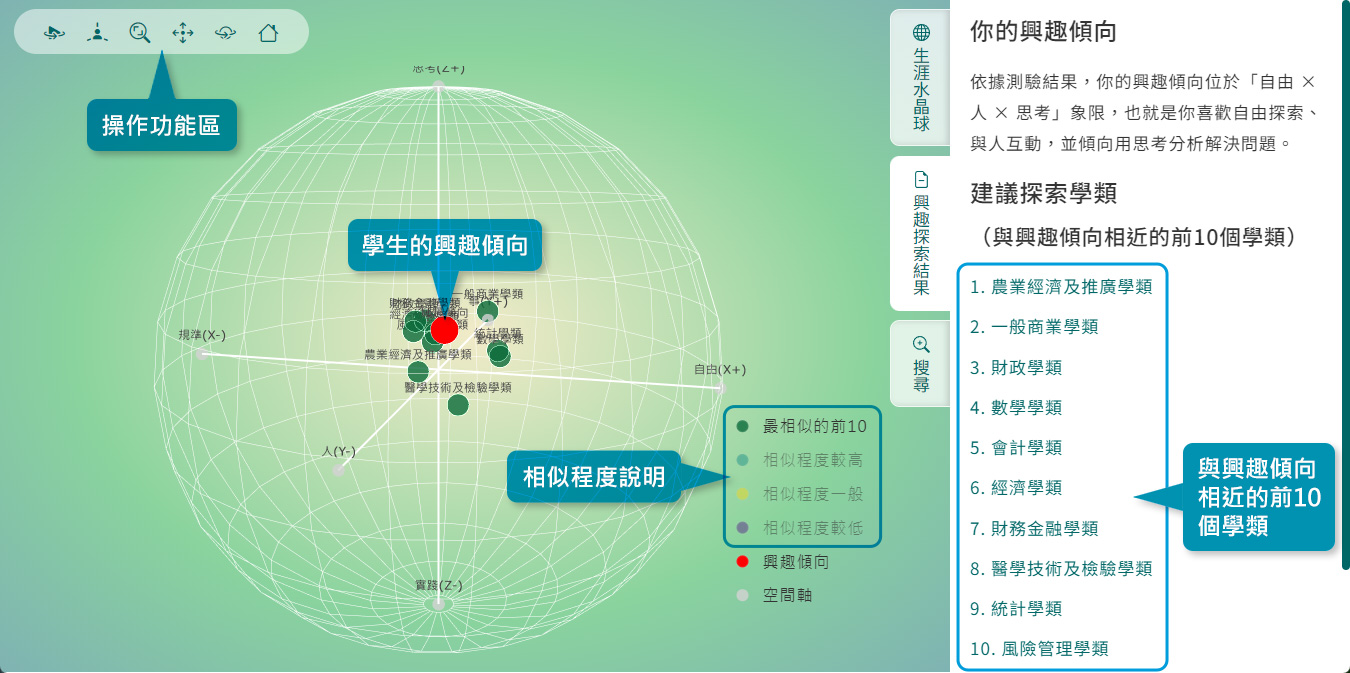
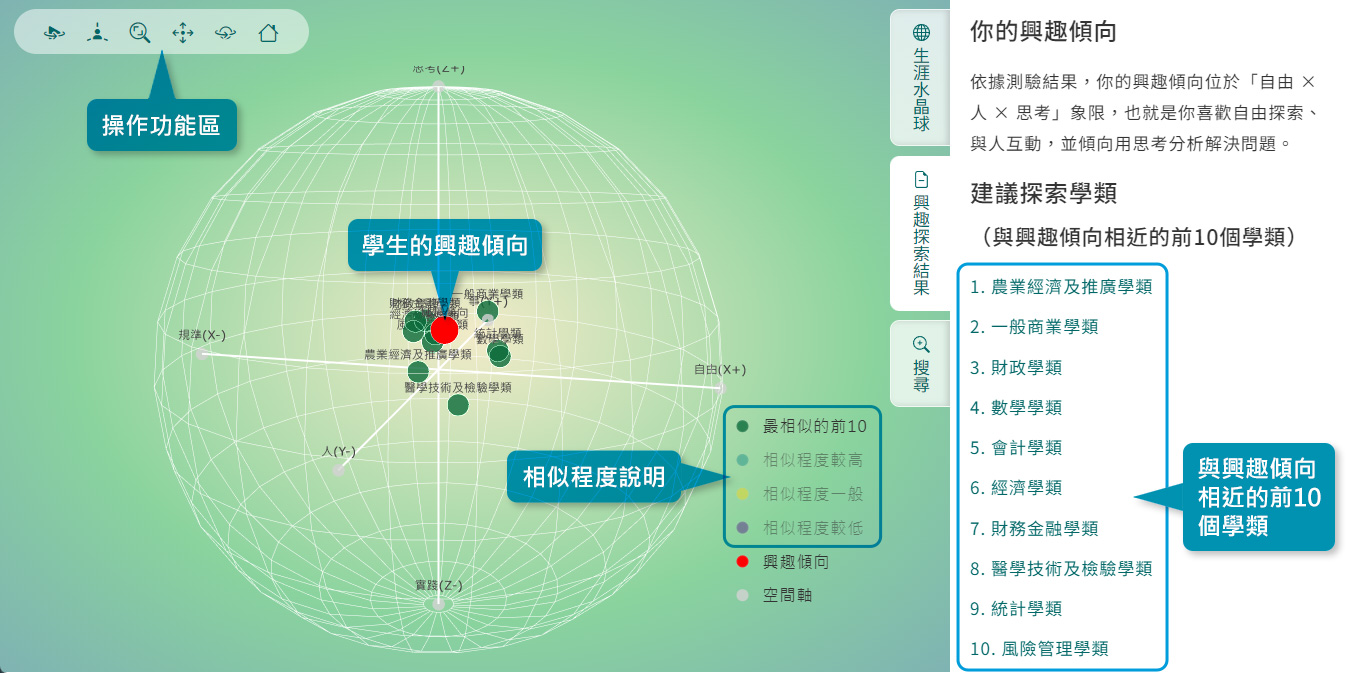
T

Changed region(s): [[0.9956, 0.0, 1.0, 0.8737], [0.9956, 0.9985, 1.0, 1.0]]

diff --git a/TEACHER/css/TI.css b/TEACHER/css/TI.css
@@ -27,8 +27,7 @@ ul.menu {
     width: 10px;
     height: 10px;
     background-image: url(../images/TI/UI.png);
-    background-position: 0px -96px;
-    transform: translateX(-50%); }
+    background-position: 0px -96px; }
   .subMenu .subMenu-bg {
     width: 100%; }
     .subMenu .subMenu-bg span {
@@ -49,33 +48,33 @@ ul.menu {
     .subMenu a:hover, .subMenu a.active {
       color: #fced03; }
   .subMenu.sub1 .subMenu-arrow {
-    margin-left: 7.1428571429%; }
+    margin-left: calc(938px/7*1 - 938px/7/2 - 10px/2); }
   .subMenu.sub1 .subMenu-bg {
     padding-left: 10px; }
   .subMenu.sub2 .subMenu-arrow {
-    margin-left: 21.4285714286%; }
+    margin-left: calc(938px/7*2 - 938px/7/2 - 10px/2); }
   .subMenu.sub2 .subMenu-bg {
-    padding-left: 14.2857142857%; }
+    padding-left: calc(938px/7*1); }
   .subMenu.sub3 .subMenu-arrow {
-    margin-left: 35.7142857143%; }
+    margin-left: calc(938px/7*3 - 938px/7/2 - 10px/2); }
   .subMenu.sub3 .subMenu-bg {
-    padding-left: 28.5714285714%; }
+    padding-left: calc(938px/7*2); }
   .subMenu.sub4 .subMenu-arrow {
-    margin-left: 50%; }
+    margin-left: calc(938px/7*4 - 938px/7/2 - 10px/2); }
   .subMenu.sub4 .subMenu-bg {
-    padding-left: 42.8571428571%; }
+    padding-left: calc(938px/7*3); }
   .subMenu.sub5 .subMenu-arrow {
-    margin-left: 64.2857142857%; }
+    margin-left: calc(938px/7*5 - 938px/7/2 - 10px/2); }
   .subMenu.sub5 .subMenu-bg {
-    padding-left: 57.1428571429%; }
+    padding-left: calc(938px/7*4); }
   .subMenu.sub6 .subMenu-arrow {
-    margin-left: 78.5714285714%; }
+    margin-left: calc(938px/7*6 - 938px/7/2 - 10px/2); }
   .subMenu.sub6 .subMenu-bg {
-    padding-left: 71.4285714286%; }
+    padding-left: calc(938px/7*5); }
   .subMenu.sub7 .subMenu-arrow {
-    margin-left: 92.8571428571%; }
+    margin-left: calc(938px/7*7 - 938px/7/2 - 10px/2); }
   .subMenu.sub7 .subMenu-bg {
-    padding-left: 85.7142857143%; }
+    padding-left: calc(938px/7*6); }
   .subMenu.sub6 .subMenu-bg {
     padding-left: 0;
     text-align: right;
@@ -150,3 +149,5 @@ ul.menu {
         .content_block li dl dd .subtitle {
           color: #398006;
           font-size: 1.05em; }
+
+/*# sourceMappingURL=TI.css.map */

diff --git a/TEACHER/css/TA.css b/TEACHER/css/TA.css
@@ -27,8 +27,7 @@ ul.menu {
     width: 10px;
     height: 10px;
     background-image: url(../images/TA/UI.png);
-    background-position: 0px -96px;
-    transform: translateX(-50%); }
+    background-position: 0px -96px; }
   .subMenu .subMenu-bg {
     width: 100%; }
     .subMenu .subMenu-bg span {
@@ -49,33 +48,33 @@ ul.menu {
     .subMenu a:hover, .subMenu a.active {
       color: #fced03; }
   .subMenu.sub1 .subMenu-arrow {
-    margin-left: 7.1428571429%; }
+    margin-left: calc(938px/7*1 - 938px/7/2 - 10px/2); }
   .subMenu.sub1 .subMenu-bg {
     padding-left: 10px; }
   .subMenu.sub2 .subMenu-arrow {
-    margin-left: 21.4285714286%; }
+    margin-left: calc(938px/7*2 - 938px/7/2 - 10px/2); }
   .subMenu.sub2 .subMenu-bg {
-    padding-left: 14.2857142857%; }
+    padding-left: calc(938px/7*1); }
   .subMenu.sub3 .subMenu-arrow {
-    margin-left: 35.7142857143%; }
+    margin-left: calc(938px/7*3 - 938px/7/2 - 10px/2); }
   .subMenu.sub3 .subMenu-bg {
-    padding-left: 28.5714285714%; }
+    padding-left: calc(938px/7*2); }
   .subMenu.sub4 .subMenu-arrow {
-    margin-left: 50%; }
+    margin-left: calc(938px/7*4 - 938px/7/2 - 10px/2); }
   .subMenu.sub4 .subMenu-bg {
-    padding-left: 42.8571428571%; }
+    padding-left: calc(938px/7*3); }
   .subMenu.sub5 .subMenu-arrow {
-    margin-left: 64.2857142857%; }
+    margin-left: calc(938px/7*5 - 938px/7/2 - 10px/2); }
   .subMenu.sub5 .subMenu-bg {
-    padding-left: 57.1428571429%; }
+    padding-left: calc(938px/7*4); }
   .subMenu.sub6 .subMenu-arrow {
-    margin-left: 78.5714285714%; }
+    margin-left: calc(938px/7*6 - 938px/7/2 - 10px/2); }
   .subMenu.sub6 .subMenu-bg {
-    padding-left: 71.4285714286%; }
+    padding-left: calc(938px/7*5); }
   .subMenu.sub7 .subMenu-arrow {
-    margin-left: 92.8571428571%; }
+    margin-left: calc(938px/7*7 - 938px/7/2 - 10px/2); }
   .subMenu.sub7 .subMenu-bg {
-    padding-left: 85.7142857143%; }
+    padding-left: calc(938px/7*6); }
 
 .subsubMenu {
   padding-top: 10px;
@@ -146,3 +145,5 @@ ul.menu {
         .content_block li dl dd .subtitle {
           color: #0b5e61;
           font-size: 1.05em; }
+
+/*# sourceMappingURL=TA.css.map */

diff --git a/TEACHER/css/TW.css b/TEACHER/css/TW.css
@@ -27,8 +27,7 @@ ul.menu {
     width: 10px;
     height: 10px;
     background-image: url(../images/TW/UI.png);
-    background-position: 0px -96px;
-    transform: translateX(-50%); }
+    background-position: 0px -96px; }
   .subMenu .subMenu-bg {
     width: 100%; }
     .subMenu .subMenu-bg span {
@@ -49,33 +48,33 @@ ul.menu {
     .subMenu a:hover, .subMenu a.active {
       color: #fced03; }
   .subMenu.sub1 .subMenu-arrow {
-    margin-left: 7.1428571429%; }
+    margin-left: calc(938px/7*1 - 938px/7/2 - 10px/2); }
   .subMenu.sub1 .subMenu-bg {
     padding-left: 10px; }
   .subMenu.sub2 .subMenu-arrow {
-    margin-left: 21.4285714286%; }
+    margin-left: calc(938px/7*2 - 938px/7/2 - 10px/2); }
   .subMenu.sub2 .subMenu-bg {
-    padding-left: 14.2857142857%; }
+    padding-left: calc(938px/7*1); }
   .subMenu.sub3 .subMenu-arrow {
-    margin-left: 35.7142857143%; }
+    margin-left: calc(938px/7*3 - 938px/7/2 - 10px/2); }
   .subMenu.sub3 .subMenu-bg {
-    padding-left: 28.5714285714%; }
+    padding-left: calc(938px/7*2); }
   .subMenu.sub4 .subMenu-arrow {
-    margin-left: 50%; }
+    margin-left: calc(938px/7*4 - 938px/7/2 - 10px/2); }
   .subMenu.sub4 .subMenu-bg {
-    padding-left: 42.8571428571%; }
+    padding-left: calc(938px/7*3); }
   .subMenu.sub5 .subMenu-arrow {
-    margin-left: 64.2857142857%; }
+    margin-left: calc(938px/7*5 - 938px/7/2 - 10px/2); }
   .subMenu.sub5 .subMenu-bg {
-    padding-left: 57.1428571429%; }
+    padding-left: calc(938px/7*4); }
   .subMenu.sub6 .subMenu-arrow {
-    margin-left: 78.5714285714%; }
+    margin-left: calc(938px/7*6 - 938px/7/2 - 10px/2); }
   .subMenu.sub6 .subMenu-bg {
-    padding-left: 71.4285714286%; }
+    padding-left: calc(938px/7*5); }
   .subMenu.sub7 .subMenu-arrow {
-    margin-left: 92.8571428571%; }
+    margin-left: calc(938px/7*7 - 938px/7/2 - 10px/2); }
   .subMenu.sub7 .subMenu-bg {
-    padding-left: 85.7142857143%; }
+    padding-left: calc(938px/7*6); }
 
 .subsubMenu {
   padding-top: 10px;
@@ -146,3 +145,5 @@ ul.menu {
         .content_block li dl dd .subtitle {
           color: #ff4301;
           font-size: 1.05em; }
+
+/*# sourceMappingURL=TW.css.map */

diff --git a/TEACHER/css/Default.css b/TEACHER/css/Default.css
@@ -47,8 +47,7 @@
     width: 10px;
     height: 10px;
     background-image: url(../images/Default/UI.png);
-    background-position: 0px -96px;
-    transform: translateX(-50%); }
+    background-position: 0px -96px; }
   .subMenu .subMenu-bg {
     width: 100%; }
     .subMenu .subMenu-bg span {
@@ -69,33 +68,33 @@
     .subMenu a:hover, .subMenu a.active {
       color: #fced03; }
   .subMenu.sub1 .subMenu-arrow {
-    margin-left: 7.1428571429%; }
+    margin-left: calc(938px/7*1 - 938px/7/2 - 10px/2); }
   .subMenu.sub1 .subMenu-bg {
     padding-left: 10px; }
   .subMenu.sub2 .subMenu-arrow {
-    margin-left: 21.4285714286%; }
+    margin-left: calc(938px/7*2 - 938px/7/2 - 10px/2); }
   .subMenu.sub2 .subMenu-bg {
-    padding-left: 14.2857142857%; }
+    padding-left: calc(938px/7*1); }
   .subMenu.sub3 .subMenu-arrow {
-    margin-left: 35.7142857143%; }
+    margin-left: calc(938px/7*3 - 938px/7/2 - 10px/2); }
   .subMenu.sub3 .subMenu-bg {
-    padding-left: 28.5714285714%; }
+    padding-left: calc(938px/7*2); }
   .subMenu.sub4 .subMenu-arrow {
-    margin-left: 50%; }
+    margin-left: calc(938px/7*4 - 938px/7/2 - 10px/2); }
   .subMenu.sub4 .subMenu-bg {
-    padding-left: 42.8571428571%; }
+    padding-left: calc(938px/7*3); }
   .subMenu.sub5 .subMenu-arrow {
-    margin-left: 64.2857142857%; }
+    margin-left: calc(938px/7*5 - 938px/7/2 - 10px/2); }
   .subMenu.sub5 .subMenu-bg {
-    padding-left: 57.1428571429%; }
+    padding-left: calc(938px/7*4); }
   .subMenu.sub6 .subMenu-arrow {
-    margin-left: 78.5714285714%; }
+    margin-left: calc(938px/7*6 - 938px/7/2 - 10px/2); }
   .subMenu.sub6 .subMenu-bg {
-    padding-left: 71.4285714286%; }
+    padding-left: calc(938px/7*5); }
   .subMenu.sub7 .subMenu-arrow {
-    margin-left: 92.8571428571%; }
+    margin-left: calc(938px/7*7 - 938px/7/2 - 10px/2); }
   .subMenu.sub7 .subMenu-bg {
-    padding-left: 85.7142857143%; }
+    padding-left: calc(938px/7*6); }
 
 .subsubMenu {
   padding-top: 10px;
@@ -333,3 +332,5 @@ a.contract {
   vertical-align: middle;
   border-radius: 50%;
   padding: 5px; }
+
+/*# sourceMappingURL=Default.css.map */

diff --git a/TEACHER/sass/_subMenuStyles.scss b/TEACHER/sass/_subMenuStyles.scss
@@ -6,7 +6,6 @@
 		height: 10px;
 		background-image:url(../images/#{$get-path}/UI.png);
 		background-position: 0px -96px;
-		transform: translateX(-50%);
 	}
 	.subMenu-bg{ 
 		width:100%;
@@ -34,32 +33,32 @@
 	}
 	
 	&.sub1{
-		.subMenu-arrow{ margin-left: 100%/7*1 - 100%/7*.5; }
-		.subMenu-bg{   padding-left: 10px; }
+		.subMenu-arrow{ margin-left: calc(938px/7*1 - 938px/7/2 - 10px/2);}
+		.subMenu-bg{ padding-left:10px;}
 	}
 	&.sub2{
-		.subMenu-arrow{ margin-left: 100%/7*2 - 100%/7*.5; }
-		.subMenu-bg{   padding-left: 100%/7*1; }		
+		.subMenu-arrow{ margin-left: calc(938px/7*2 - 938px/7/2 - 10px/2);}
+		.subMenu-bg{ padding-left: calc(938px/7*1);}		
 	}
 	&.sub3{
-		.subMenu-arrow{ margin-left: 100%/7*3 - 100%/7*.5; }
-		.subMenu-bg{   padding-left: 100%/7*2; }		
+		.subMenu-arrow{ margin-left: calc(938px/7*3 - 938px/7/2 - 10px/2);}
+		.subMenu-bg{ padding-left: calc(938px/7*2);}		
 	}
 	&.sub4{
-		.subMenu-arrow{ margin-left: 100%/7*4 - 100%/7*.5; }
-		.subMenu-bg{   padding-left: 100%/7*3; }		
+		.subMenu-arrow{ margin-left: calc(938px/7*4 - 938px/7/2 - 10px/2);}
+		.subMenu-bg{ padding-left: calc(938px/7*3);}		
 	}
 	&.sub5{
-		.subMenu-arrow{ margin-left: 100%/7*5 - 100%/7*.5; }
-		.subMenu-bg{   padding-left: 100%/7*4; }		
+		.subMenu-arrow{ margin-left: calc(938px/7*5 - 938px/7/2 - 10px/2);}
+		.subMenu-bg{ padding-left: calc(938px/7*4);}		
 	}
 	&.sub6{
-		.subMenu-arrow{ margin-left: 100%/7*6 - 100%/7*.5; }
-		.subMenu-bg{   padding-left: 100%/7*5; }	 	
+		.subMenu-arrow{ margin-left: calc(938px/7*6 - 938px/7/2 - 10px/2);}
+		.subMenu-bg{ padding-left: calc(938px/7*5);}		
 	}
 	&.sub7{
-		.subMenu-arrow{ margin-left: 100%/7*7 - 100%/7*.5; }
-		.subMenu-bg{   padding-left: 100%/7*6; }		
+		.subMenu-arrow{ margin-left: calc(938px/7*7 - 938px/7/2 - 10px/2);}
+		.subMenu-bg{ padding-left: calc(938px/7*6);}		
 	}
 }
 

diff --git a/TEACHER/css/paperUpdate.css b/TEACHER/css/paperUpdate.css
@@ -150,20 +150,19 @@ a img {
 	margin-top: -1px;
 	position: relative;
 	z-index: 10;
-	width: calc(918px * 3);
+	width:2664px; /*888px*3*/
 	height:auto;
 }
 .tab-compare .tab-content .boxs { 
 	float:left;
-	width: 918px;
+	width: 888px;
 	height:auto;
 	position:relative;
 	z-index:11;
 	padding-top:5px;
 }
 .tab-compare .tab-content .boxs > dd {
-	margin-left: 0px;
-	width: calc(100% - 30px);
+	    margin-left: 0px;
 }
 /***/
 .subsubMenu span.disabled {
@@ -182,48 +181,4 @@ a img {
 .img-responsive {
 	max-width:100%;
 	height:auto;
-}
-
-/*2026 4.0 update*/
-.tab-menu-slider {
-  position: relative;
-  padding: 0 32px;
-  overflow: hidden;
-}
-.tab-menu-slider .tab-menu-viewport {
-  width: 100%;
-  overflow: hidden;
-}
-.tab-menu-slider ul.tab-menu {
-  margin: 0;
-  padding: 0;
-}
-.tab-menu-slider ul.tab-menu li {
-  box-sizing: border-box;
-}
-.tab-menu-slider .tab-menu-arrow {
-  position: absolute;
-  top: 50%;
-  width: 26px;
-  height: 32px;
-  margin-top: -16px;
-  border: 1px solid #919191;
-  background: #fff;
-  color: #398006;
-  font-size: 18px;
-  line-height: 28px;
-  text-align: center;
-  cursor: pointer;
-  z-index: 30;
-}
-.tab-menu-slider .tab-menu-arrow-left {
-  left: 0;
-}
-.tab-menu-slider .tab-menu-arrow-right {
-  right: 0;
-}
-.tab-menu-slider .tab-menu-arrow.disabled {
-  color: #888;
-  opacity: .35;
-  cursor: default;
 }

diff --git a/TEACHER/TestInterest/CrystalBall.html b/TEACHER/TestInterest/CrystalBall.html
@@ -17,7 +17,7 @@ $(function(){
 });
 </script>
 <!-- for 2018 paper update -->
-<link rel="stylesheet" type="text/css" href="../css/paperUpdate.css">
+<link rel="stylesheet" type="text/css" href="../css/paperUpdate.css"> 
 <script src="../js/paperUpdate.js"></script>
 <!-- InstanceEndEditable -->
 </head>
